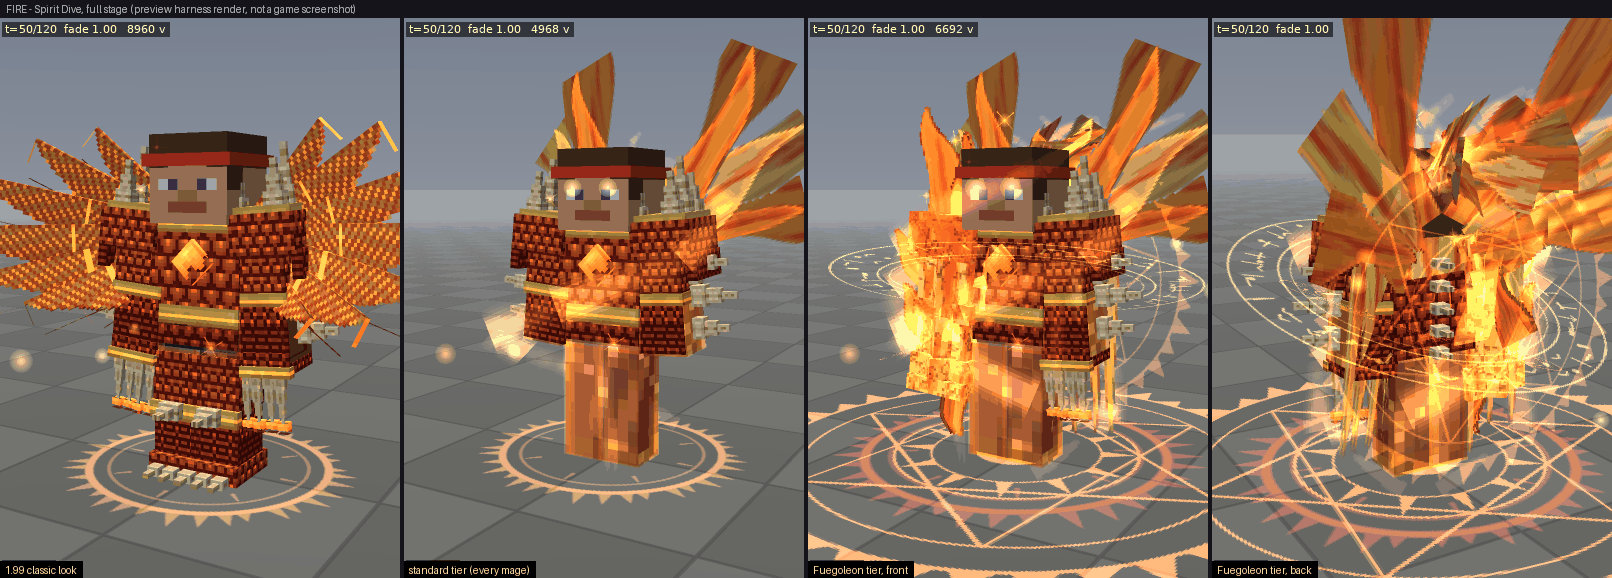
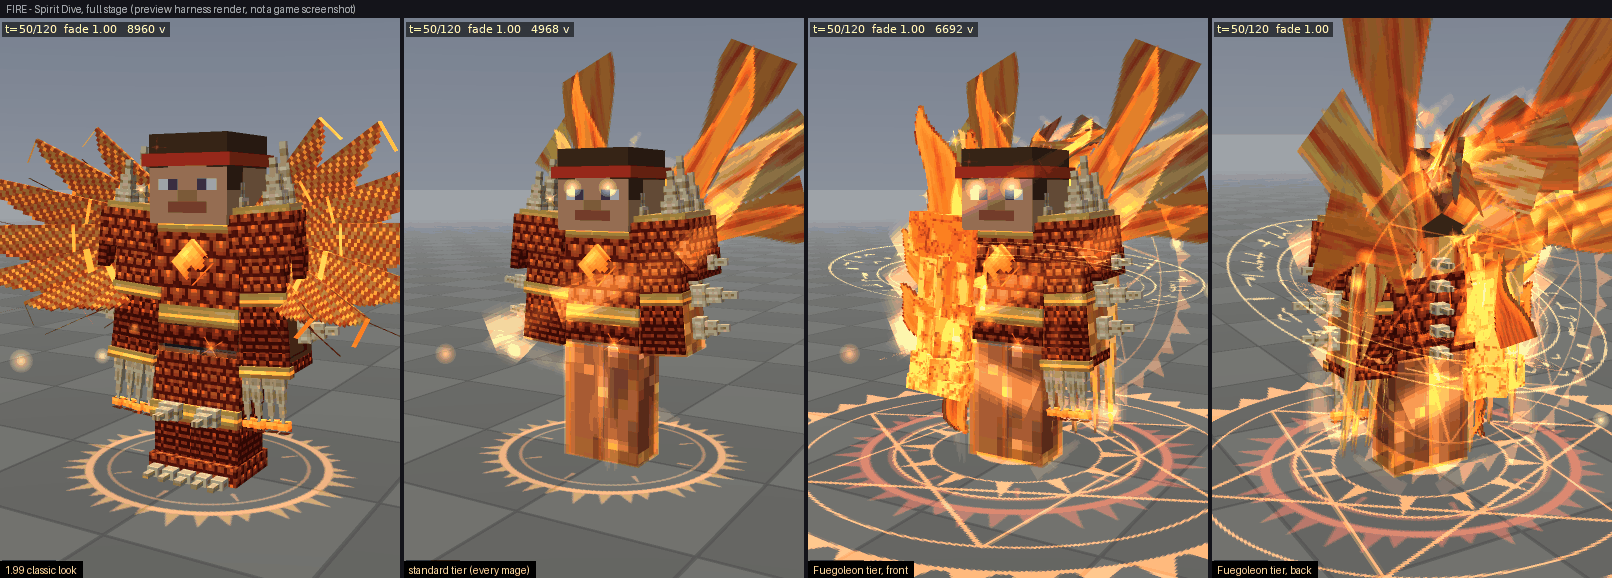
Spirit Dive remake: doc, preview sheets
Claude-Session: https://claude.ai/code/session_0174t393fJ2EgwV92FW9SroE

diff --git a/tools/spirit_dive_previews.py b/tools/spirit_dive_previews.py
@@ -92,8 +92,6 @@ def main():
     if os.path.isfile(os.path.join(BUILD, "sdv_arm_linked_cast.png")):
         items.append(("while casting (flare)", "sdv_arm_linked", 0, "sdv_arm_linked_cast"))
     sheet("fuegoleon_arm_states", items, "the arm in its three states (third person)")
-    if os.path.isfile(os.path.join(BUILD, "sdv_fire_fuego_full_cast.png")):
-        sheet("fuegoleon_dive_cast", [("Fuegoleon dive", "sdv_fire_fuego_full", 0), ("the same, casting (flare)", "sdv_fire_fuego_full", 0, "sdv_fire_fuego_full_cast")], "Fire Spirit Dive of the Fuegoleon tier with the arm painter, and during a cast")
     sheet("fuegoleon_arm_first_person_approx", [("rest", "sdv_arm_fp_rest", 0), ("Salamander out", "sdv_arm_fp_linked", 0)],
           "MOCK / APPROXIMATION of the first person view: a camera behind the shoulder, the arm swung forward. The real hand view (FireArmFirstPerson) was not rendered here.")
 

diff --git a/docs/magic/spirit_dives.md b/docs/magic/spirit_dives.md
@@ -1,0 +1,178 @@
+# Spirit Dive remake: the remade dives, the character tier and Fuegoleon's flaming arm
+
+Owner request (round 1.99.x): "Remake all the Spirit Dives ... make the Fuegoleon user have his flaming arm when they acquire the spirit. If you need to remake the VFX, the effects must look 10x cooler
+than the non-Character-Grimoire users."
+
+Nothing here was seen in a game. Every picture is the project's headless rasteriser (`tools/render_preview`, the real painter classes against Minecraft stubs); the first person hand is not in any picture
+(section 9). Read section 11 (what could not be verified) before trusting any number about looks.
+
+## 1. What was built, in one paragraph
+
+Every Spirit Dive (Wind, Water, Fire, Earth) has a **remade look** that replaces the 1.99 armour-like look by default: a lighter, more elemental dive (green wind mana, flame, flowing water, stone and crystal)
+in two tiers. The **standard tier** is what every mage gets. The **character tier** is what the mage whose bound canon grimoire is the character of the element gets (`CharacterSpells.characterOf`):
+**Yuno** on Wind, **Fuegoleon** on Fire, **Noelle** on Water. It adds that character's own pieces and a stack of effects (columns of light, helices, a large sigil on the ground and another behind the back,
+orbiting rune rings, a shockwave and a pillar of light at the entry, glowing eyes and hands) in the character's colours (Yuno green-gold, Fuegoleon crimson-gold, Noelle blue-silver). Earth has no canon
+character in the mod, so it is always the standard tier. A client option brings the 1.99 look back. **Fuegoleon's flaming right arm** is a separate, persistent look: while the Salamander is his (the
+contract, the spirit out, or the Fire dive) the server turns it on and every client draws a molten flame arm from the shoulder, in third and first person, with embers and a mane of fire strands.
+
+## 2. References and sources (rule 10: English wiki first, Japanese as the fallback)
+
+| What | Source | How it was read |
+|---|---|---|
+| Spirit Dive forms: Yuno's first dive transforms only the left half (a green half crown, one green wing, the left arm green, a circle of connected crosses round the wrist); the fuller form has both sides (a circle of connected crosses behind the back, two wings, a full crown) | English fandom, *Spirit Dive* and *Yuno Grinberryall* pages (blackclover.fandom.com) | **search summary only** (WebSearch, extended): the page bodies could not be fetched (`getaddrinfo ENOTFOUND blackclover.fandom.com`) |
+| Fuegoleon's dive: mainly the arms, covered in mana with draconic scales, horns and wings like the Salamander | English fandom, *Spirit Dive*, *Fuegoleon Vermillion* | search summary only |
+| Fuegoleon's flaming RIGHT arm: "the fire spirit Salamander chose him and revived him, and he has a flaming right arm" (official profile) | Japanese: the official Black Clover account (@blackclover_off, "魔法騎士名鑑", Fuegoleon) and the Shonen Jump official character page (`shonenjump.com/j/sp_bclover/character/chara027.html`); two fan articles on the four great spirits | search snippets only (the pages were not fetched) |
+| Yuno in the Spirit Dive: a green aura, a crown-like wind halo, wing-like wind blades, glowing green hair and eyes | the owner's screenshot `images/127.png` (the fandom Yuno page, Spirit Magic list) | looked at |
+| Fuegoleon's arm: a molten, flame-shaped arm from the shoulder, a red-orange fire mane flowing off his body | the owner's screenshot `images/128.png` | looked at |
+
+**Could not be fetched at all:** every fandom page body (the host does not resolve here), `ja.wikipedia.org` and the Japanese fandom (no result for 精霊同化 / スピリットダイブ). Details of the look that
+the text sources do not give (hair and eye glow, the exact blade shapes) come from the two screenshots, not from text.
+
+## 3. NEW / REPLACED / KEPT (rule 5)
+
+| | What |
+|---|---|
+| **NEW** | the character tier and the remade standard tier of the four dives (`book/SpiritDiveTier`, the grade in bits 4-5 of the style number of `Aura.SPIRIT_DIVE`); 14 new geo pieces (`spiritdive_arm_wind_halo`, `wind_blades_l/r`, `wind_hair`, `fire_mane`, `fire_cape`, `fire_flames_l/r`, `flame_arm_r`, `water_ribbon_l/r`, `water_rings`, `water_train`, `earth_crown`); the procedural effects (`client/aura/SpiritDiveFx`); the sprites (`textures/aura/sdv_*`: light column, entry pillar, shockwave, four sigils, rune ring, flame sheet, wisp), the vein layers (`spirit2_<element>_veins`) and a warmer fire skin (`spirit2_fire_shell`); the particle trail (`client/aura/DiveParticles`, seven themes `spirit_dive.*`); Fuegoleon's flaming arm (`Aura.FUEGOLEON_ARM`, `book/FuegoleonArm`, `FuegoleonArmRules`, `client/aura/FuegoleonArmAura`, `FuegoleonArmFx`, `FireArmFirstPerson`); the server config `nusmp-spiritdive-server.toml` and the client config `nusmp-spiritdive-client.toml`; two self-tests; unit and scan tests; the generator kit (`tools/gen_spirit_dive_v2.py`, `sdv_lib.py`, `sdv_sprites.py`) and the preview sheet tool |
+| **REPLACED** (the old one stays behind the client option `spiritDive.classicLook`) | the LOOK of the four dives: the heavy armour-like piece lists (greaves, claws, sleeves, the cross-hatched fire wings, the water wings and halo of the Valkyrie armour at the full stage ...) are no longer drawn by default; the lists of the remade look are `SpiritDivePieces.pieces(element, stage, grade)`; the old lists, painter passes, models and textures are all still there and `classicLook = true` draws exactly the 1.99 dive |
+| **KEPT** | how a dive is entered, left and paid (`GrimoireBook.spiritDive`, the gauge, the stats, the upkeep, the half and full stages, the upgrade): not touched; the style numbers of the standard tier are the same numbers as before (the grade bits are 0); every old model, texture, enum constant and page; the Time Magic VFX (not touched) |
+
+## 4. The tiers
+
+The server chooses the tier when the dive starts and on every renewal (once a second): `SpiritDiveForm.gradeOf(player, element)` = `SpiritDiveTier.gradeFor(element, canonId)`, where `canonId` is the id of
+the canon grimoire bound to the player. A character grimoire only earns its OWN look on its OWN element; a stray combination is the standard tier. The server switch `spiritDive.characterTier = false`
+sends every dive as standard.
+
+| Element | Standard tier (every mage) | Character tier |
+|---|---|---|
+| **Wind** | the mana skin; left half: a half mantle, a ring round the wrist, half a crown, one honeycomb wing; full: the right half too and the full crown (the series' first dive is left-only, kept); one light column ring, one helix of wind, wisps of hair, glowing eyes, a ring of the element on the ground, a few motes | **Yuno**: plus the crown HALO (a turning ring of leaf prongs above the head), the WING-LIKE WIND BLADES (three long swept blades a side, behind the back), streaming hair, three helices, eight light columns, the large sigil of connected crosses on the ground AND behind the back, two orbiting rune rings, glowing hands, the entry (shockwave, second ring, pillar of light, flash); green-gold |
+| **Fire** | the mana skin (a warm crimson-orange skin instead of the old near-black one); draconic scales on the arms, pauldrons, chest, small flame wings then the full pair of FLAME WINGS; one helix of flame, a ring, embers, eyes | **Fuegoleon**: plus the FLAME MANE (flame tongues streaming back from the head), the cape of flame, the sun-of-flames sigil, three helices of flame ribbons, orbiting rune rings, the entry; the right arm is Fuegoleon's molten arm (section 6) instead of a scaled one; crimson-gold |
+| **Water** | the Valkyrie armour (lighter: no greaves or vambraces) at the half stage, the Saint Valkyrie Dress at the full stage (feather wings, gold halo, sash), a ripple ring, drops | **Noelle**: plus the water RIBBONS from the shoulders, the TRAIN of the dress, the gyroscope HALO of three water rings (instead of the gold halo), feathered sleeves, the wave sigil, helices of water, the entry; blue-silver |
+| **Earth** | mossy stone plates, a ROCK CROWN with five floating amber crystals, the floating rocks at the full stage, a vein layer of amber crystal veins over the body, dust bits, a stone ring | (none: the earth spirit is never named) |
+
+Level of detail (`SpiritDiveTier.lod`, by the distance from the camera): up to 24 blocks the whole look; up to 48 blocks no small detail pieces and the cheap effects (the character tier keeps its signature
+pieces); up to 64 blocks only a ring on the ground; beyond that nothing. At most **three** dives per frame draw the character tier (`SpiritDiveFrame.admitCharacter`, a per frame budget): the rest of a crowd
+of Yunos draws the standard tier. The viewer's `spiritDive.characterEffects = false` draws every dive as standard.
+
+## 5. How the look is drawn (the engines it uses)
+
+* The layer is the existing `Aura.SPIRIT_DIVE` (`client.aura.SpiritDiveAura`): pass 1 the translucent mana skin, pass 2 the geo pieces (each forged in and shattered out by `EquipAnimation`, glow maps additive),
+  pass 3 the additive haze and the new vein layer, pass 4 `SpiritDiveFx`. The pieces are GeoLite models made by `tools/gen_spirit_dive_v2.py` on the shared kit of `tools/great_spirits_lib.py`; the new
+  shapes (blades, flames, ribbons, prongs) are flat boxes whose texture carries the silhouette, a bright rim and a glow map.
+* `SpiritDiveFx` draws only flat or camera-facing sprites with `AuraRender.additive` (the SafeAdditive rules: sprites that are black under their alpha; `SafeAdditiveTextureScanTest` is green), in
+  layer space, from the numbers of `SpiritDiveTier.budget`. One scratch quaternion, textures in statics: nothing is allocated per frame.
+  The only per frame objects are the small `LazyBuffers` consumers the aura layer hands out for every buffer a painter asks for (the design of `PlayerAuraLayer`, shared by every aura; about a dozen per
+  diving player per frame); `SpiritDiveRemakeScanTest` pins that no painter method of the remake builds a vector, quaternion, location, string or collection.
+* The client particle trail (`DiveParticles`) goes through `Fx` and so through `PerfBudgets.clientParticles`, the effect quality and the distance bands.
+* The colour grading per tier is in `SpiritDiveTier.glow / primary / accent` (pure, tested).
+
+## 6. Fuegoleon's flaming right arm
+
+**Who and when (the server decides).** `book/FuegoleonArm` checks every player once every 40 ticks (staggered by entity id). The arm is on when ALL of: the server switch `spiritDive.fuegoleonArm` is on,
+the player is alive, the bound grimoire is Fuegoleon's, and at least one of: the Salamander contract is held (`SpiritLordSkill.bondedType` = "Salamander": the Spirit Lord skill or the bond kind of the Spirit
+Charm), the Salamander (small or big form) is out (`FireCasting.salamanderOut`), or the Fire Spirit Dive runs. It goes (the lease is cleared at the next check, at once on death) when none holds: the spirit
+was released, the bond was lost, the grimoire is not Fuegoleon's any more. The decision is the pure `FuegoleonArmRules.reason`. At the start of a Fire dive the arm lease is sent immediately.
+A one line message ("The Salamander's flame runs down your right arm.") appears when it first lights.
+
+**How it reaches the clients.** One `Aura.FUEGOLEON_ARM` lease (100 ticks, renewed every 40): the existing per-player aura sync (`PlayerAuras`, keyed by player UUID, dropped at logout), one small packet to
+the players that track the wearer, at most 0.5 per second per Fuegoleon plus one at every change of state. Style 1 = at rest (the contract is held), 2 = the Salamander is out or the dive runs. The cast
+flare is NOT sent: the client reads the cast animation it already has (`DiveCast` -> `CastAnimClient.oneShotActive`).
+
+**What it looks like.** Third person (`FuegoleonArmAura`): the 3D model `spiritdive_arm_flame_arm_r` (a shoulder flare, an upper arm, an elbow, a forearm and a fist of living flame: a bright orange skin cut by
+thin dark red cracks, glowing, the cross-section turned into an eight-pointed star so it reads round, with flame tongues that sway, rising from the shoulder and elbow and falling from the fist); the
+frame-animated flame sheets round it (`textures/aura/sdv_flame_sheet.png`, four frames, about eleven a second, crossed planes so they work in the hand too); embers rising off the arm; a soft heat-haze glow
+behind it (a real refraction cannot be done with the mod's render types: it is a breathing glow, said plainly); and four ribbons of fire streaming off the shoulder (the "fire mane" of the reference).
+The flames leap during a cast and burn highest during the Fire dive. First person (`FireArmFirstPerson`): for an empty hand the arm is drawn inside the game's own arm draw (`RenderArmEvent`), for a hand
+that holds an item at the same hand pose the Djinn gauntlet uses (`RenderHandEvent`); only the RIGHT arm, only while the arm is on, nothing else of the hand is changed.
+
+**Settings.** Server: `spiritDive.fuegoleonArm` (default true). Client (`nusmp-spiritdive-client.toml`): `fuegoleonArm.view` = `OFF`, `FLARE` (only while casting, diving or with the Salamander out) or
+`ALWAYS` (default: also at rest, a quieter flame). Not for anyone whose grimoire is not Fuegoleon's: other Fire users get the standard Salamander look.
+
+## 7. Settings
+
+| File | Key | Default | Effect |
+|---|---|---|---|
+| `nusmp-spiritdive-server.toml` (SERVER) | `spiritDive.characterTier` | true | false: every dive is sent as the standard tier |
+| | `spiritDive.fuegoleonArm` | true | false: the arm is never turned on |
+| `nusmp-spiritdive-client.toml` (CLIENT) | `spiritDive.classicLook` | false | true: the 1.99 look, exactly as it was |
+| | `spiritDive.characterEffects` | true | false: every dive is drawn as the standard tier |
+| | `spiritDive.particles` | true | the particle trail |
+| | `fuegoleonArm.view` | ALWAYS | OFF / FLARE / ALWAYS |
+
+## 8. Worst-case costs (rule 11: a change that cannot be shown to be bounded does not ship)
+
+Every number is a hard bound from the code, pinned by `SpiritDiveTierTest`, `FuegoleonArmRulesTest` and `SpiritDiveRemakeScanTest` (the scan reads the real model files and sums the cubes: 24 vertices a
+cube, two passes, body and glow).
+
+**Client, per diving player, per frame, at full detail (up to 24 blocks):**
+
+| | pieces (vertices) | mana skin (4 passes, at most 12 boxes) | effects (quads / vertices) | total (vertices) | cap |
+|---|---|---|---|---|---|
+| standard tier, worst element (Water full) | 6480 (Wind full 4992, Fire full 3840, half 5184, Earth full 3216) | 1056 | 42 quads = 168 | about 7700 | 8500 (`SpiritDiveTier.vertexCap`) |
+| character tier, worst (Yuno full 6096; Noelle 6000; Fuegoleon 5088) | 6096 | 1056 | 130 quads = 520 | about 7700 | 10500 |
+| Fuegoleon's arm (own aura) | 19 cubes = 912 | - | 42 quads = 168 | about 1080 | - |
+
+The effect budget of one dive (`SpiritDiveTier.budget`, the painter loops over exactly these fields): standard FULL = 4 light columns (8 quads), 6 motes, 4 bits, 3 hair strands (12), 1 helix (8), 1 ring
+(2), 2 flares = 42 quads; character FULL = 8 columns (16), 2 pillar planes (4), 18 motes, 12 bits, 9 strands (36), 3 helices (24), 7 rings (14), 6 flares = 130 quads. At 24-48 blocks the standard tier
+draws 2 columns + 2 motes + 1 ring and the character tier 4 columns, 6 motes, 3 strands, 1 helix, 3 rings and 2 flares; at 48-64 blocks both draw one ring; beyond 64 nothing. At most 3 dives per frame
+draw the character tier. The effects of far players are skipped. **Client particles:** at most 6 dives within 24 blocks per tick, one particle every third tick for a standard dive and two a tick for a
+character dive: at most 12 per tick (240 a second) before the client particle budget (`clientParticlesPerTick`, 400) and the quality and distance bands thin them; one burst of 8 / 28 particles on the
+tick after a dive begins.
+
+**Server, per player:** the tier costs one grimoire NBT read a second per DIVING player. Fuegoleon's arm costs, for every player, one `instanceof` and one modulo per tick, and once every 40 ticks one
+grimoire-slot read (every non-Fuegoleon player stops there; a Fuegoleon player also reads the spirit bond, the firecast state map and the aura table). No entity is spawned, no chunk is loaded, nothing is
+scanned. **Network:** the dive adds no packet (the grade rides inside the style number of the lease the dive already sent every second); the arm adds at most 0.5 packets a second per Fuegoleon plus one
+per change of state, sent to the players that track him only. **Cleanup:** the lease table (`PlayerAuras`) is dropped at logout; the arm lease is cleared on death and expires 5 seconds after the server stops renewing it.
+
+## 9. What each part is tested by
+
+* `SpiritDiveTierTest` (pure): the tier follows the canon grimoire and the element and never borrows another character's look; the style number round-trips (48 combinations), the 1.99 numbers are unchanged,
+  a bad byte never throws; the budgets are ordered and bounded; the levels of detail cut at 24 / 48 / 64 blocks and never improve with distance; the colour grading is green / crimson-gold / blue-silver;
+  the particle trail is bounded; the piece lists (signature pieces belong to their character, Yuno's first dive stays left-only, the upgrade forges only what is missing).
+* `FuegoleonArmRulesTest` (pure): the reason matrix (switch, grimoire, alive, contract / link / dive), the styles, one check per wearer per 40 ticks and an even spread over a crowd, at most 0.5 packets a
+  second, what the client draws for OFF / FLARE / ALWAYS.
+* `SpiritDiveRemakeScanTest` (reads the repo): every piece list under its vertex cap; no client class in the common classes; the painters allocate nothing and build no location or string in their frame
+  methods; no hand-made additive render type; every texture, model, animation clip, particle theme and lang key the code names exists; the classic look is still there; no hunger.
+* Self-tests (CI server smoke test): **`magic.spirit_dive_looks`** (every file exists, the particle themes exist; with a stand-in player: no canon grimoire = standard, Yuno's on Wind = Yuno, Fuegoleon's on
+  Fire = Fuegoleon, Noelle's on Water = Noelle, Fuegoleon's on Wind and Yuno's on Fire = standard) and **`magic.fuegoleon_arm`** (no arm without the contract; the arm with it, the lease sent; none for
+  another character's grimoire or without a grimoire; gone when the contract changes; on for the Fire dive; the renewal cost).
+* The existing tests of the dive (`SpiritDivePiecesTest`, the armour policy tests, the geo and asset tests, the perf scan tests, `ServerSafetyTest`, `ConfigFileNamesTest`, the particle / texture / lang tests)
+  still pass; `python3 -B tools/safe_additive/scan_textures.py` reports no offending texture.
+
+## 10. Previews (`docs/previews/spirit_dives/`, rebuilt by `python3 -B tools/spirit_dive_previews.py`) and the iteration log
+
+All of them are the headless rasteriser: translucent and additive passes are approximated, there is no bloom, no sky, and the camera is the harness's.
+
+| File | What it shows |
+|---|---|
+| `wind_yuno.png`, `fire_fuegoleon.png`, `water_noelle.png`, `earth.png` | per element: the 1.99 look, the standard tier, the character tier (front and back); Earth: front, back, half |
+| `half_dives.png` | the first (half) dives of every element, standard and character |
+| `entry_yuno.png`, `entry_fuegoleon.png`, `entry_noelle.png` | the entry of the character tier at ticks 3, 8, 14 and 22 |
+| `fuegoleon_arm.png`, `fuegoleon_arm_states.png` | the flaming arm from three sides, and at rest / Salamander out / casting (the cast flare is switched on in the harness with `SDV_CAST=1`; in a Fire dive the flare is always at its highest) |
+| `fuegoleon_arm_first_person_approx.png` | **MOCK / APPROXIMATION**: a camera behind the right shoulder with the arm swung forward. The real first person hand (`FireArmFirstPerson`) cannot be rendered by the harness (it needs the game's hand pass); this picture only shows what the model and flames look like seen along the arm |
+
+Iteration against the owner's two screenshots (each round = changes, a render of every scene, a look at the sheets):
+
+1. **First render.** Yuno: the new blades were big and radiating, but pointed FORWARD over the face (the yaw sign of a bone in these files is the opposite of the fire feathers'); the honeycomb wings and the
+   blades overlapped. Fuegoleon: the mane was huge and pale yellow, the near-black fire skin hid the body, the cross-hatched wings were busy. Water and Earth were fine; the Earth crystals floated out of frame.
+2. **Orientation and palette.** Blades swept back (negative yaw), fan opened up (rolls -80 to -28), the fire skin replaced by a warm translucent one, flames re-coloured amber-red instead of white-yellow,
+   the mane made smaller and brought down behind the head.
+3. **Helices and the missing ribbons.** The strands (hair) and the new helices were invisible: the sprite faded to nothing along its length and a long helix only showed its bottom end. The wisp sprite was
+   redrawn, every segment now a comet streak with a bright head, the helix thickened; flame wings replaced the cross-hatched wings in the remade fire dive; the ground ring colours follow the character.
+4. **Over-exposure.** Stacked additive layers turned the Fuegoleon tier white at close range: glow multipliers of the flame pieces lowered, columns and back sigil alpha lowered, the flame body alpha raised
+   so the flames stay orange on a bright background, one mane tongue and one wing tongue removed; the sigil behind the back added (Yuno's circle of connected crosses is behind his back in the series).
+5. **The arm.** First version: translucent, so it showed the skin underneath as a pale peach block, and boxy. Now an opaque body at every strength (only the flames and the glow follow the strength),
+   a second turn of every segment at 45 degrees (an eight-pointed section), flame sheets tinted orange, the "at rest" strength raised to a visible quiet flame.
+6. **Close range.** White-out of the hand flares and columns at 3 blocks reduced; the dive stopped drawing a second copy of the arm (the arm aura draws it, in the dive too).
+
+## 11. What could not be verified (honest list)
+
+* **Nothing was seen in a running game.** All pictures are the harness; the final look of translucency, bloom, the particle themes and the distance behaviour is unknown.
+* **The first person hand** (`FireArmFirstPerson`: the placement for an empty hand and for a held item, the camera basis of the flames in the hand) is written from the game's own hand code and the Djinn
+  gauntlet's placement, not run. `FireArmFirstPerson.ENABLED = false` switches it off in one line.
+* **The cast flare** reads `CastAnimClient.oneShotActive` (public, existing); in the harness it is a stub (`SDV_CAST=1` shows the flare).
+* **The heat shimmer** is a soft breathing glow, not a distortion.
+* **The per frame cap of character tiers** counts frames with `RenderLevelStageEvent` (AFTER_SKY), the way the 3D compass does; if that event does not arrive every dive is admitted (distance still applies).
+* **Alex (slim) arms:** the molten arm is narrowed to 80 percent about the arm's pivot like the other arm pieces; not looked at.
+* **Spirit contracts by other means:** the arm follows `SpiritLordSkill.bondedType` and `FireCasting.salamanderOut`; a player given the Salamander by another route that sets neither is not covered.
+* **Light, Darkness and Space spirits** have no Spirit Dive in the mod (their packages have links and abilities only), so there is nothing to remake for them.
+* The file `src/main/resources/data/nusmp/particle_themes.json` is written by `tools/particles/gen_themes.py` (seven themes appended); if another change also edits the generator, re-run it after the merge.
